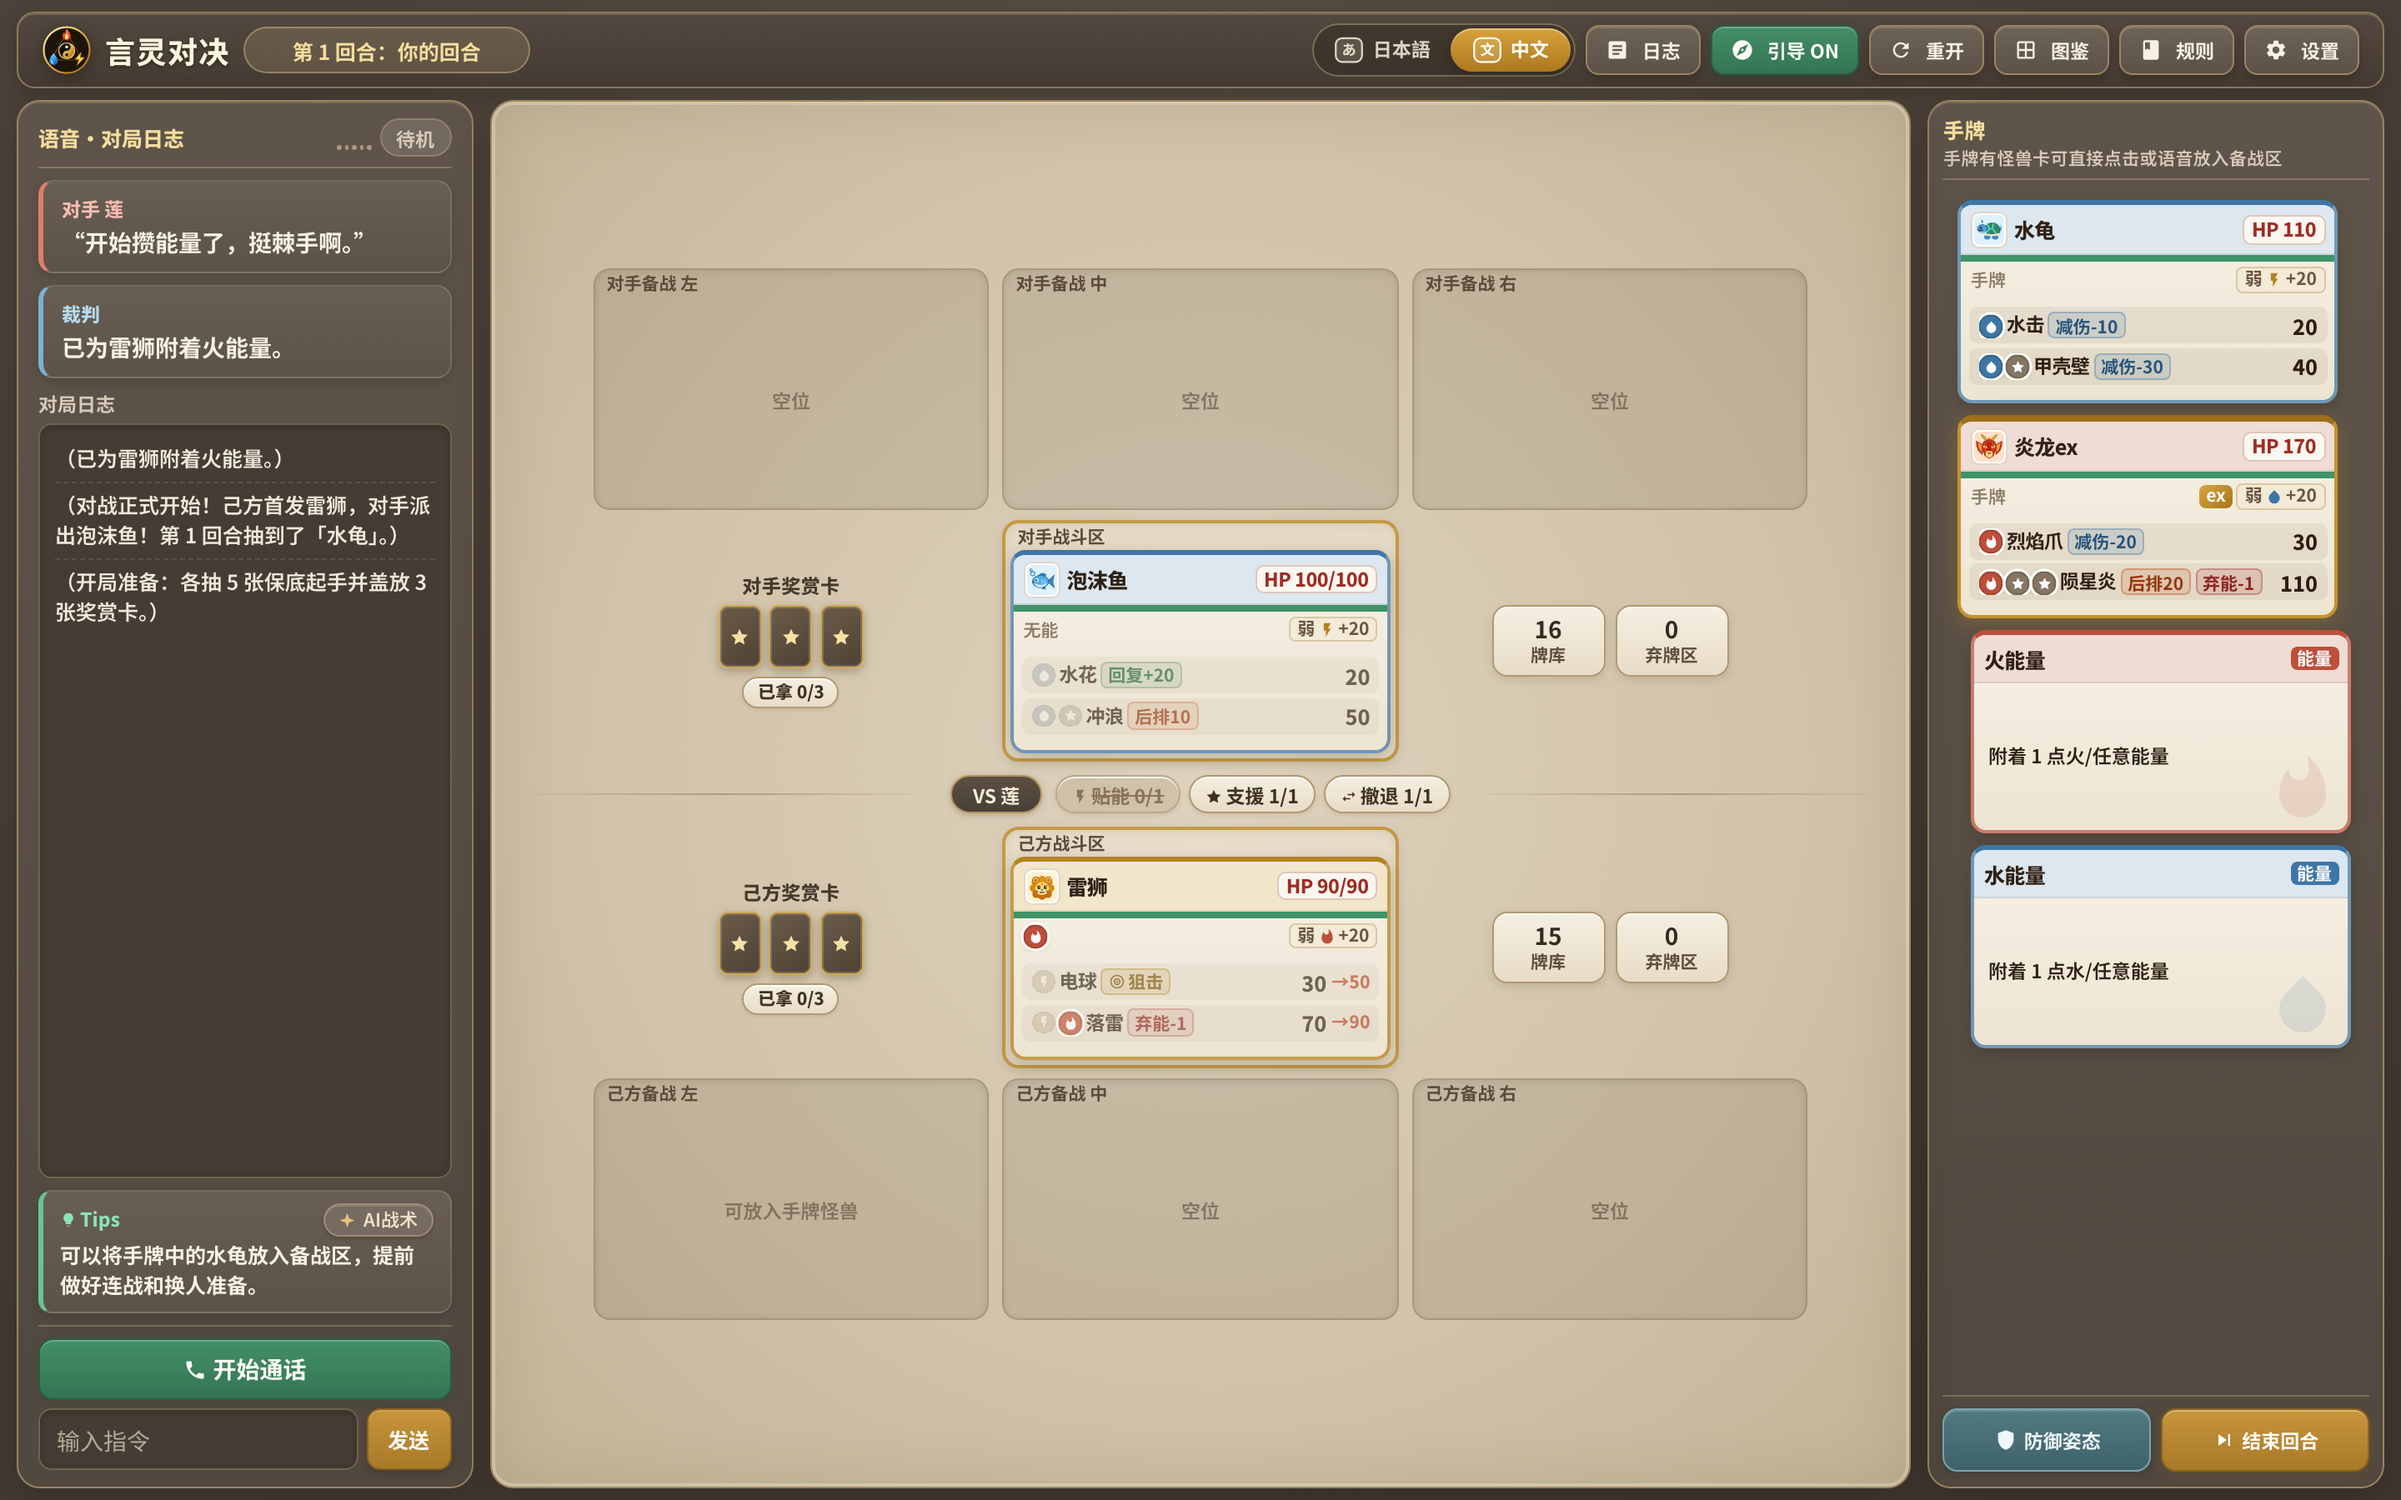
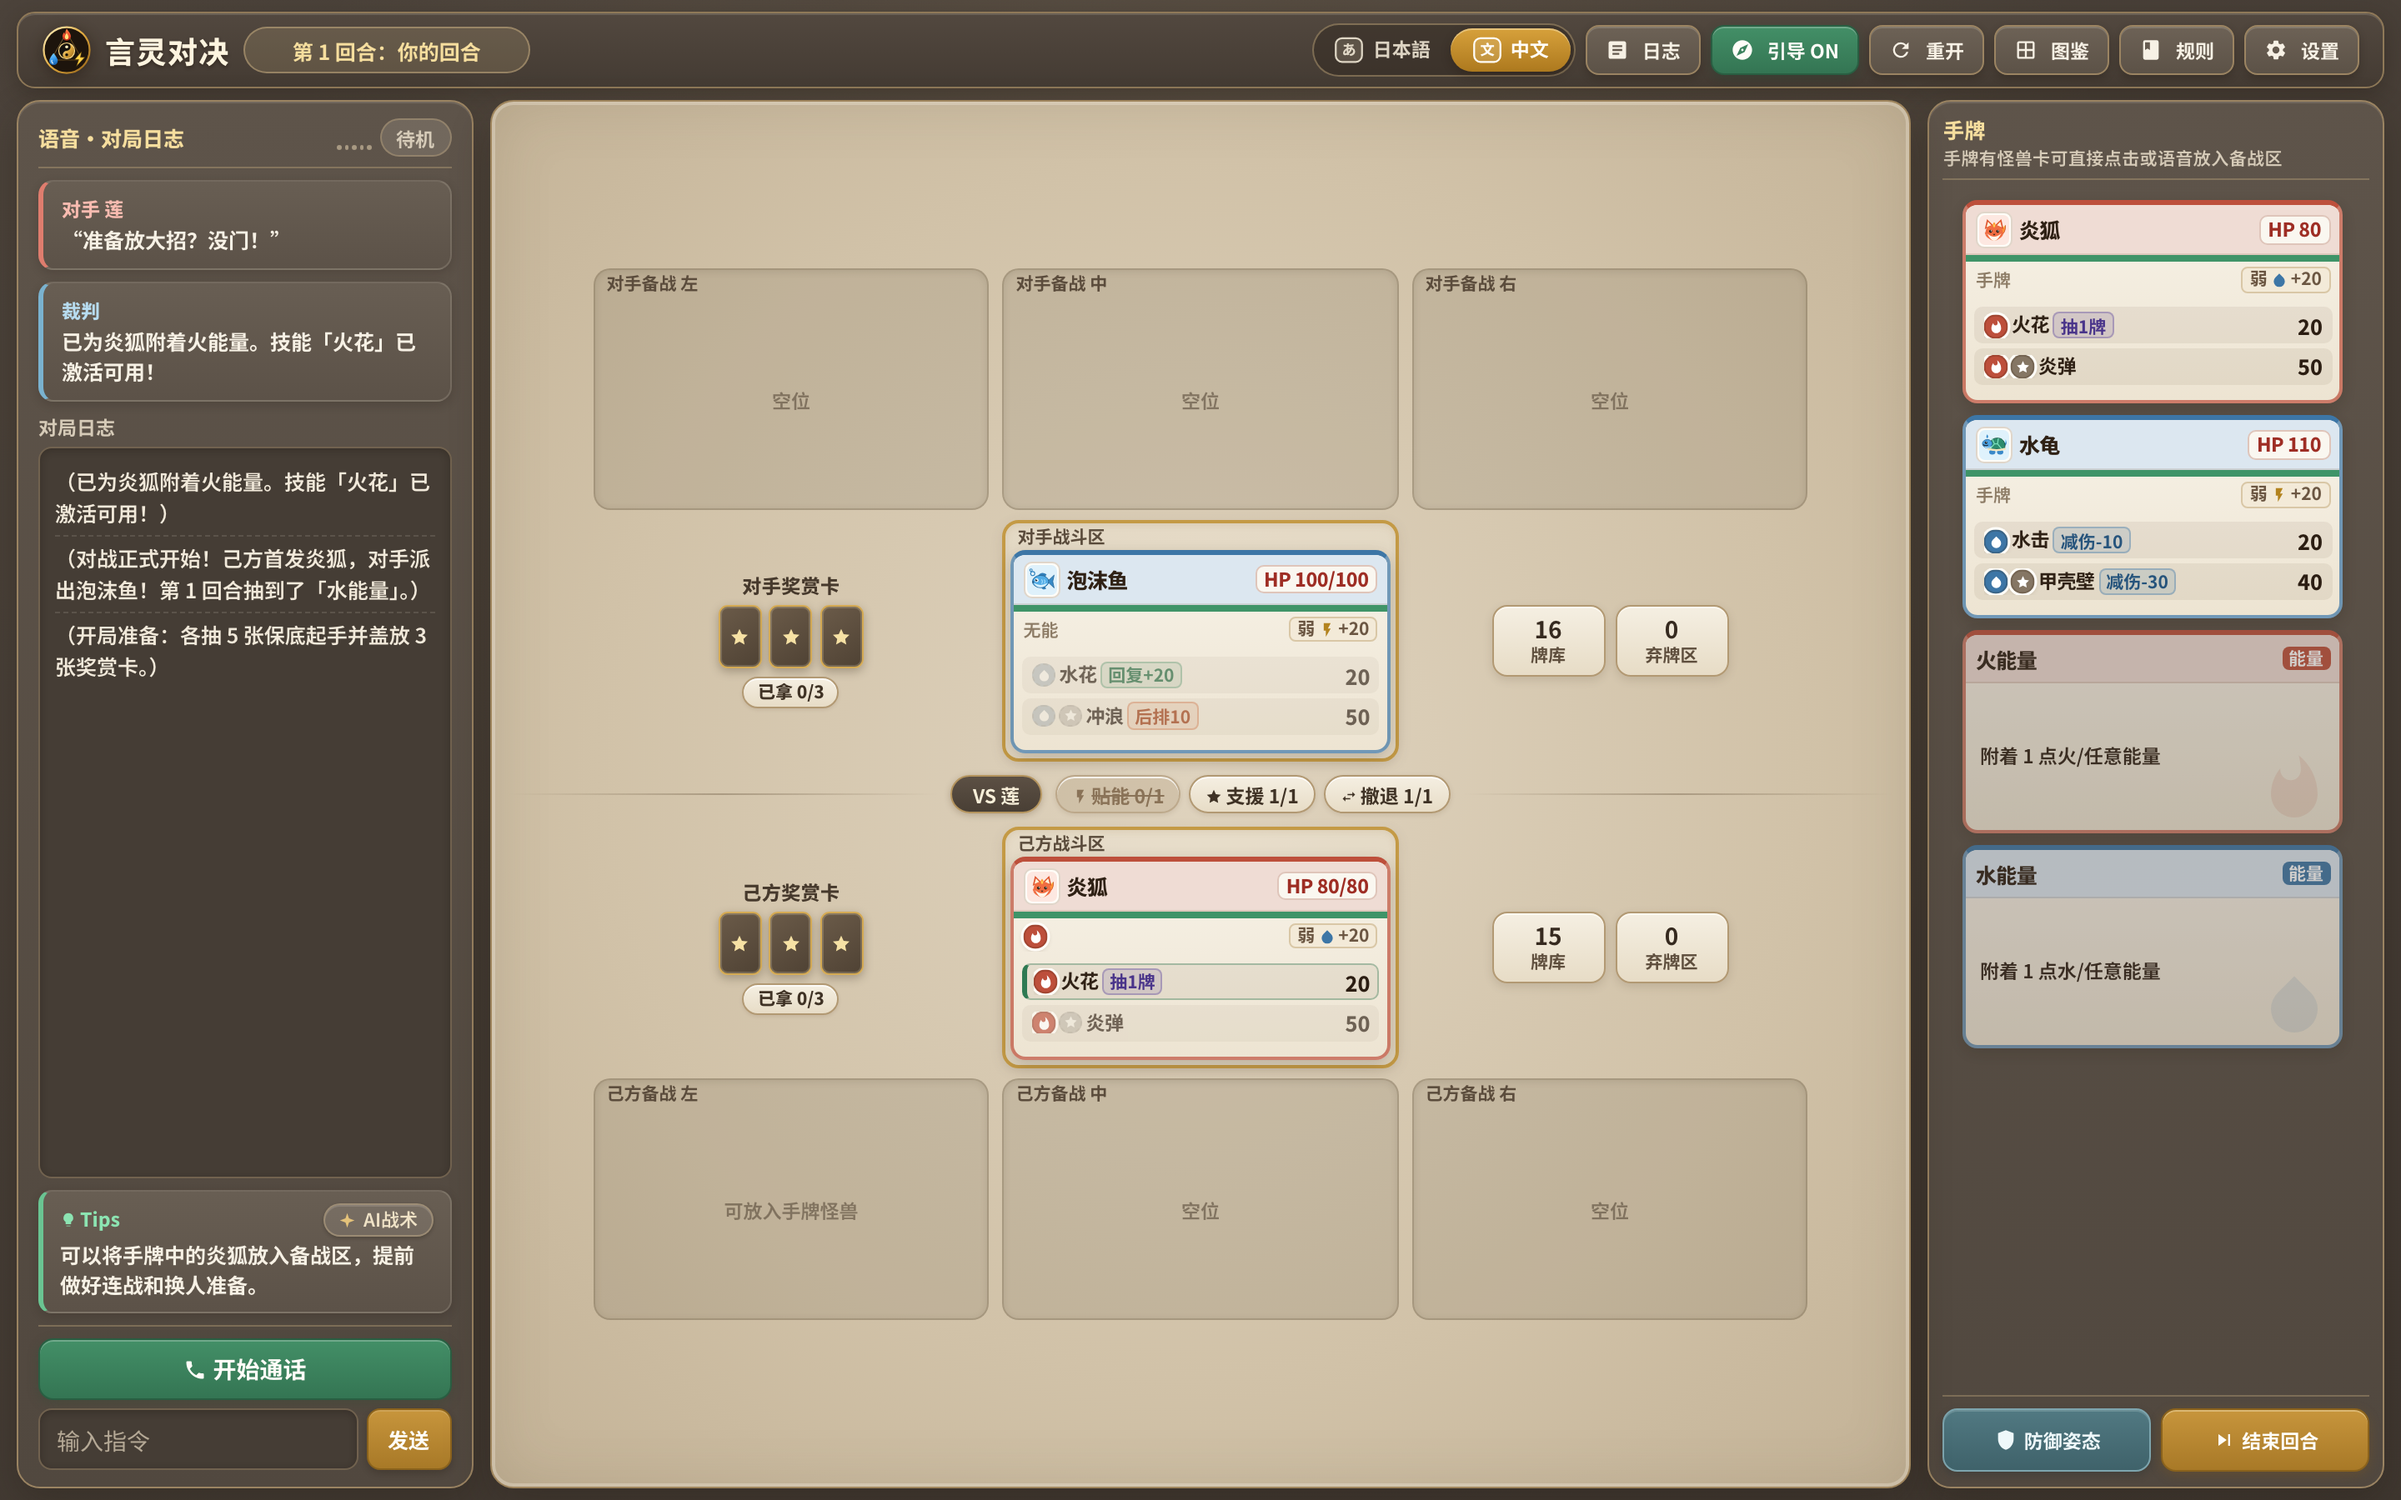
style(ui): flush hand alignment, match bubble text to --fs-md, align guide card with deck box

diff --git a/app.js b/app.js
@@ -453,6 +453,30 @@
       }
     },
 
+    /** 将桌面/横屏模式下的引导浮动卡片最左侧与牌库按钮最左侧精确对齐（竖屏内联模式下自动恢复默认全宽） */
+    alignToDeckBox() {
+      const box = $("guideFloat");
+      if (!box) return;
+      if (getComputedStyle(box).position !== "absolute") {
+        box.style.left = "";
+        box.style.right = "";
+        box.style.width = "";
+        return;
+      }
+      const playmat = box.closest(".playmat");
+      const deckBox = $("playerDeckBox") || $("enemyDeckBox");
+      if (!playmat || !deckBox) return;
+      const pmRect = playmat.getBoundingClientRect();
+      const dkRect = deckBox.getBoundingClientRect();
+      if (pmRect.width <= 0 || dkRect.width <= 0) return;
+      const pmBorderLeft = parseFloat(getComputedStyle(playmat).borderLeftWidth) || 0;
+      const leftPx = Math.max(8, Math.round(dkRect.left - pmRect.left - pmBorderLeft));
+      const availRight = Math.floor(playmat.clientWidth - leftPx - 10);
+      box.style.left = `${leftPx}px`;
+      box.style.right = "auto";
+      box.style.width = `${Math.max(160, Math.min(280, availRight))}px`;
+    },
+
     /** 渲染并展示指定教学引导卡片，必要时同步播报可随时打断的低优引导语音 */
     _showCard(msg, speakVoice, key = "") {
       const box = $("guideFloat");
@@ -461,6 +485,7 @@
         if ($("guideTag")) $("guideTag").innerHTML = `${SVG_ICONS.guideChip}${formatBilingualLabelHtml(msg.tag)}`;
         if ($("guideJa")) $("guideJa").textContent = msg.ja;
         if ($("guideZh")) $("guideZh").textContent = msg.zh;
+        this.alignToDeckBox();
         void box.offsetWidth;
         box.classList.add("show");
       }
@@ -470,12 +495,13 @@
       }
     },
 
-    /** 语言切换时同步刷新当前可见引导浮窗的标题标签 */
+    /** 语言切换时同步刷新当前可见引导浮窗的标题标签与位置对齐 */
     syncVisibleCard() {
       const msg = this.lastGuideKey ? this.MESSAGES[this.lastGuideKey] : null;
       if (msg && $("guideTag")) {
         $("guideTag").innerHTML = `${SVG_ICONS.guideChip}${formatBilingualLabelHtml(msg.tag)}`;
       }
+      this.alignToDeckBox();
     },
 
     /** 触发指定步骤的首次非阻塞引导（旧引导完成撤回动画后再弹出新引导） */
@@ -10255,6 +10281,7 @@
       const s = BattleEngine.state;
       const selected = s.selectedHandIndex === idx;
       const playable = this.isHandCardPlayable(cardId);
+      const showUnplayable = s.phase === "battle" && s.currentPlayer === "player" && !s.pending && !playable && !selected;
       const mon = SpecEngine.getMonster(cardId);
       if (mon) {
         const isSetup = s.phase === "setup";
@@ -10266,7 +10293,7 @@
           ? ` title="${escapeHtml(t("クリックまたは名前を言って先発に出す", "点击或说出名字作为首发上场"))}"`
           : ` title="${escapeHtml(t("クリックまたは音声でベンチに出せます", "可直接点击或语音放入备战区"))}"`;
         return `
-          <div class="card ${escapeHtml(mon.element)} ${mon.is_ex ? "is-ex" : ""} hand-card ${selected ? "selected" : ""} ${isSetup ? "setup-pick" : (playable ? "playable" : "")}" data-hand-idx="${idx}" draggable="true"${monTitle}>
+          <div class="card ${escapeHtml(mon.element)} ${mon.is_ex ? "is-ex" : ""} hand-card ${selected ? "selected" : ""} ${isSetup ? "setup-pick" : (playable ? "playable" : "")} ${showUnplayable ? "unplayable" : ""}" data-hand-idx="${idx}" draggable="true"${monTitle}>
             <div class="card-head">
               <div class="card-head-left">
                 ${CARD_ART[mon.id] ? `<span class="card-art">${CARD_ART[mon.id]}</span>` : `<span class="pip ${escapeHtml(mon.element)} filled">${SVG_ICONS[mon.element] || SVG_ICONS.any}</span>`}
@@ -10314,7 +10341,7 @@
         ? `<span class="energy-watermark ${escapeHtml(cls)}" aria-hidden="true">${SVG_ICONS[it.element]}</span>`
         : "";
       return `
-        <div class="card ${escapeHtml(cls)} hand-card util-card ${isEnergy ? "energy-card" : ""} ${selected ? "selected" : ""} ${playable ? "playable" : ""} ${supUsed ? "supporter-used" : ""}" data-hand-idx="${idx}" draggable="true">
+        <div class="card ${escapeHtml(cls)} hand-card util-card ${isEnergy ? "energy-card" : ""} ${selected ? "selected" : ""} ${playable ? "playable" : ""} ${showUnplayable && !supUsed ? "unplayable" : ""} ${supUsed ? "supporter-used" : ""}" data-hand-idx="${idx}" draggable="true">
           <div class="card-head">
             <div class="card-head-left">
               ${CARD_ART[it.id] ? `<span class="card-art">${CARD_ART[it.id]}</span>` : ""}
@@ -11982,8 +12009,14 @@
       $("btnFullscreen")?.addEventListener("click", () => this.toggleFullscreen());
       document.addEventListener("fullscreenchange", () => this.syncUi());
       document.addEventListener("webkitfullscreenchange", () => this.syncUi());
-      window.addEventListener("resize", () => this.syncUi());
-      window.addEventListener("orientationchange", () => this.syncUi());
+      window.addEventListener("resize", () => {
+        this.syncUi();
+        requestAnimationFrame(() => GuideEngine.alignToDeckBox());
+      });
+      window.addEventListener("orientationchange", () => {
+        this.syncUi();
+        requestAnimationFrame(() => GuideEngine.alignToDeckBox());
+      });
     }
   };
 

diff --git a/index.html b/index.html
@@ -3245,8 +3245,8 @@
     --fs-splash: 24px; /* 仅用于启动黑金遮罩主标题 */
     /* 严格 5 档 0.5px 梯度核心字号体系（18 / 14 / 12.5 / 11.5 / 10.5） */
     --fs-xl: 18px;     /* 顶栏品牌标题、主弹窗/确认弹窗标题、回合横幅 */
-    --fs-lg: 14px;     /* 气泡对话、规则正文、语音主按钮/输入框、牌库数字、奖赏浮层 */
-    --fs-md: 12.5px;   /* 卡牌标题、技能名与伤害、常用按钮、对局日志、战术建议、面板标题 */
+    --fs-lg: 14px;     /* 规则正文、语音主按钮/输入框、牌库数字、奖赏浮层 */
+    --fs-md: 12.5px;   /* 气泡对话、卡牌标题、技能名与伤害、常用按钮、对局日志、战术建议、面板标题 */
     --fs-sm: 11.5px;   /* HP 徽章、道具/能量描述、次数牌、区域标签、状态胶囊 */
     --fs-xs: 10.5px;   /* 卡槽角标、能量圆片、技能特效徽章、ex/弱点/防御微标 */
 
@@ -3348,7 +3348,7 @@
     gap: 7px;
     overflow-y: auto;
     overflow-x: hidden;
-    padding: 6px 5px 8px 13px;
+    padding: 6px 8px 8px 10px;
     scrollbar-gutter: stable;
   }
   .hand-card:hover {
@@ -3709,7 +3709,7 @@
   .bubble-role { font-size: var(--fs-sm); margin-bottom: 2px; }
   .bubble-ja,
   .bubble-zh {
-    font-size: var(--fs-lg);
+    font-size: var(--fs-md);
     font-weight: 700;
     color: var(--ink);
     line-height: 1.44;
@@ -3719,7 +3719,7 @@
   }
   .pending-ja,
   .pending-zh {
-    font-size: var(--fs-lg);
+    font-size: var(--fs-md);
     font-weight: 700;
     color: #543714;
     line-height: 1.42;
@@ -4662,47 +4662,53 @@
   .card .skill-line { background: rgba(108, 86, 56, 0.085); }
   .card .hp-badge { background: #faf7f0; }
 
-  /* 右侧手牌区交互层级：可选/可用手牌同步向左微突，开局可首发怪兽卡明确绿色边框与呼吸光环（优先级高于属性/ex 边框） */
+  /* 右侧手牌区交互层级：静置手牌严格左右对齐零错位；不可用卡柔和降透明度，悬停与点选平滑微移，开局可首发怪兽卡绿框+呼吸光环 */
   .card.hand-card {
-    transform: translateX(2px);
-    transition: transform 0.16s ease, box-shadow 0.16s ease, border-color 0.16s ease;
+    transform: none;
+    transition: transform 0.16s ease, box-shadow 0.16s ease, border-color 0.16s ease, opacity 0.16s ease;
+  }
+  .card.hand-card.unplayable {
+    opacity: 0.72;
+  }
+  .card.hand-card.unplayable:hover {
+    opacity: 0.94;
   }
   .card.hand-card:hover {
-    transform: translateX(-2px) scale(1.01);
+    transform: translateX(-4px) scale(1.01);
     z-index: 12;
   }
   .card.hand-card.playable {
-    transform: translateX(-6px);
+    transform: none;
   }
   .card.hand-card.playable:hover {
-    transform: translateX(-9px) scale(1.01);
+    transform: translateX(-4px) scale(1.01);
     z-index: 12;
   }
   .card.hand-card.setup-pick {
-    transform: translateX(-7px);
+    transform: none;
     border: 2.5px solid #48b87a;
     border-top: 4px solid #3ca46b;
     box-shadow: 0 0 0 2px rgba(72, 184, 122, 0.38), 0 6px 16px rgba(24, 16, 8, 0.28), inset 0 1px 0 rgba(255, 253, 248, 0.78);
     animation: setupPulse 1.8s infinite;
   }
   .card.hand-card.setup-pick:hover {
-    transform: translateX(-10px) scale(1.01);
+    transform: translateX(-4px) scale(1.01);
     z-index: 14;
   }
   .card.hand-card.selected {
-    transform: translateX(-10px);
+    transform: translateX(-7px);
     border-color: #48b87a;
     box-shadow: 0 0 0 2.5px rgba(72, 184, 122, 0.56), 0 8px 18px rgba(24, 16, 8, 0.32);
     z-index: 13;
   }
   @media (max-width: 820px) and (orientation: portrait) {
     .card.hand-card { transform: none; }
-    .card.hand-card:hover { transform: translateY(-6px) scale(1.02); }
-    .card.hand-card.playable { transform: translateY(-5px); }
-    .card.hand-card.playable:hover { transform: translateY(-8px) scale(1.02); }
-    .card.hand-card.setup-pick { transform: translateY(-6px); }
-    .card.hand-card.setup-pick:hover { transform: translateY(-9px) scale(1.03); }
-    .card.hand-card.selected { transform: translateY(-9px); }
+    .card.hand-card:hover { transform: translateY(-5px) scale(1.02); }
+    .card.hand-card.playable { transform: none; }
+    .card.hand-card.playable:hover { transform: translateY(-5px) scale(1.02); }
+    .card.hand-card.setup-pick { transform: none; }
+    .card.hand-card.setup-pick:hover { transform: translateY(-5px) scale(1.02); }
+    .card.hand-card.selected { transform: translateY(-7px); }
     #btnLiveCall {
       grid-column: auto;
       width: auto;
